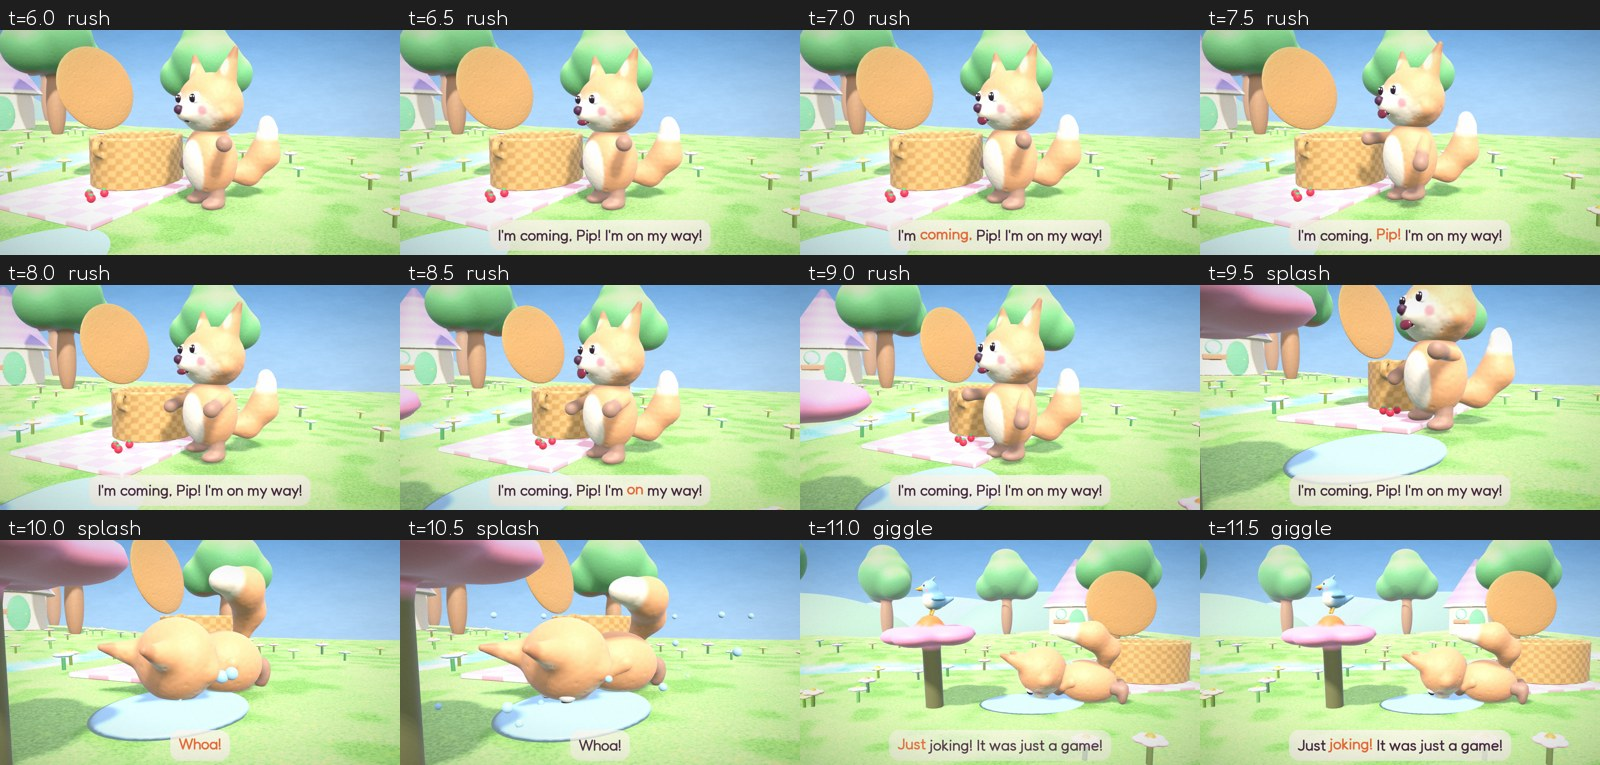
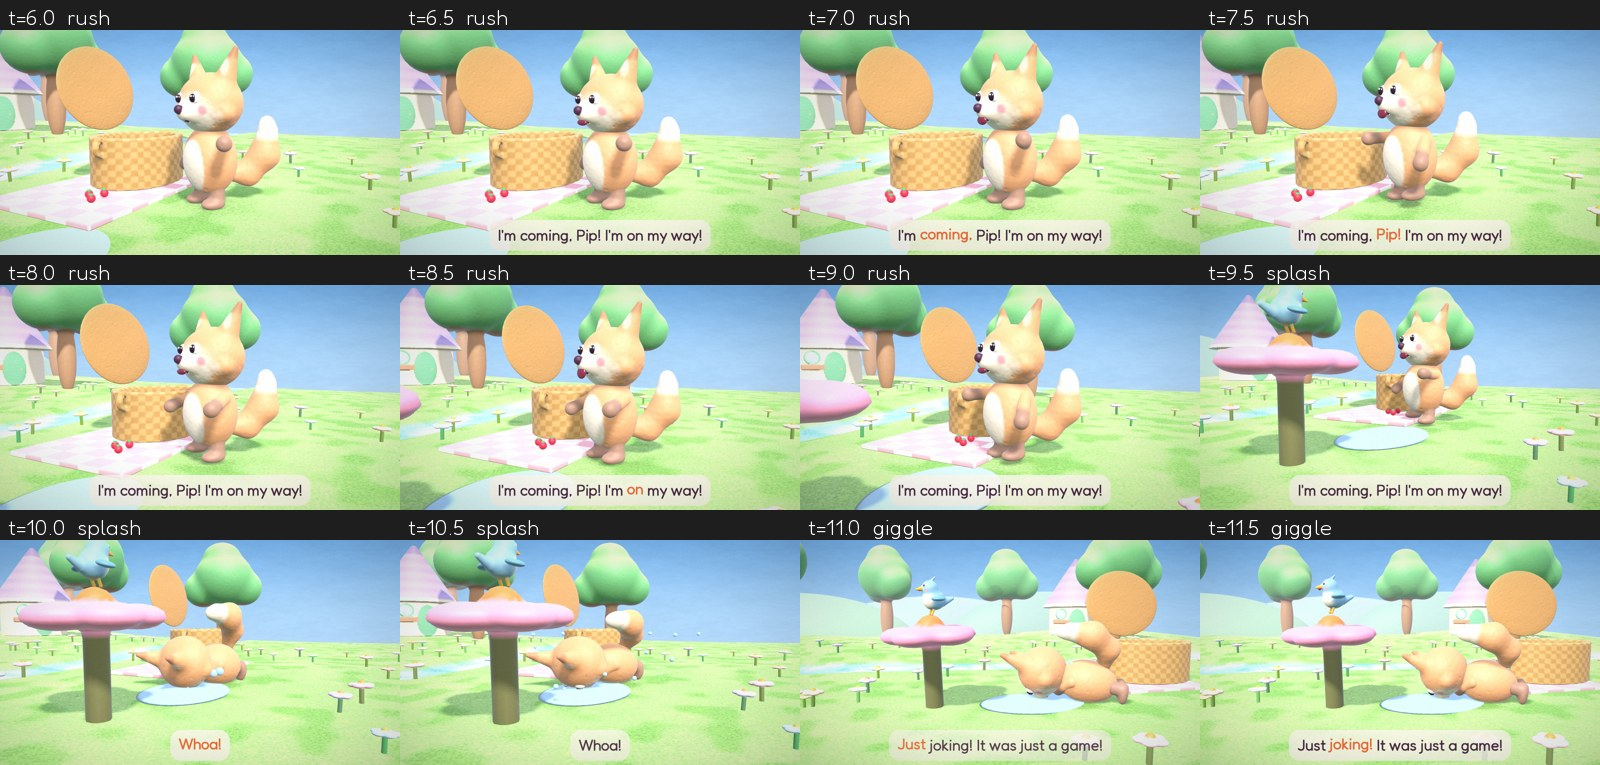
Fable 8: review round 3 fixes (Pip hover clear of face, wide rescue and splash cameras)
Claude-Session: https://claude.ai/code/session_015sJeG8C6rLnCDSthJi3ZZJ

Changed region(s): [[0.0, 0.6915, 0.5, 1.0], [0.75, 0.3608, 1.0, 0.6614], [0.375, 0.9922, 0.4062, 1.0]]

diff --git a/batches/01-fables-friendship/fable-08-pip-who-cried-help/code/render.py b/batches/01-fables-friendship/fable-08-pip-who-cried-help/code/render.py
@@ -272,7 +272,7 @@ def pip_state(t, st, mats):
     if n in ("muffled", "is_it_a_joke"):
         return pip_in(t), 0.0, False, 0.0, True, {"cling": 1.0, "wings": (0.6 + 0.3 * math.sin(t * 13), 0.6 + 0.3 * math.sin(t * 13))}
     if n == "rescue":
-        out1 = np.array([BASKET[0] - 0.35, RIM + 0.15, BASKET[1] + 0.95])   # just outside the front, left of Tumble
+        out1 = np.array([BASKET[0] - 1.3, RIM + 0.05, BASKET[1] + 0.9])   # just outside the front, left of Tumble
         if t < T.POP: return PIP_IN, 0.0, False, 0.0, True, {"cling": 1.0}
         if t < T.POP + 0.5:                                             # squeezes out under the lifted lid: a forward dive
             u = clampu(t, T.POP, T.POP + 0.5)
@@ -313,7 +313,7 @@ def camera(t):
         p = np.array([st["x"], 1.15, st["z"]])
         return fit_cam(p + np.array([-0.3, 0, 0]), -62, 6, 1.6, 1.5)
     if name == "splash":                                                # ground level, side
-        return fit_cam(np.array([FLOPPT[0] - 0.35, 0.6, FLOPPT[1]]), lerp(-62, -70, e), 5, 1.8, 1.2, lift=0.08)
+        return fit_cam(np.array([FLOPPT[0] - 0.35, 0.75 if WIDE else 0.6, FLOPPT[1]]), lerp(-62, -70, e), 5, 1.8, 1.9 if WIDE else 1.2, lift=0.08)
     if name == "giggle":                                                # close on Pip, Tumble in the puddle behind
         return fit_cam(np.array([-0.9, 1.05, -1.1]), -14, 6, 3.4, 1.6, lift=0.1)
     if name == "drip":
@@ -332,7 +332,7 @@ def camera(t):
         return fit_cam(np.array([SPINPT[0] + 0.15, 1.45, SPINPT[1]]), 38, 4, 1.0, 1.15)
     if name == "rescue":                                                # side-on to Tumble and the basket front
         c = np.array([BASKET[0] + 0.7, 1.15, BASKET[1] - 0.2])
-        return fit_cam(c, -30, 9, 2.1, 1.5)
+        return fit_cam(c, -52 if WIDE else -30, 14 if WIDE else 9, 2.1, 1.9 if WIDE else 1.5)
     if name == "moral":
         return fit_cam(np.array([MSPOT[0] + 0.25, lerp(1.35, 1.45, e), MSPOT[1]]), lerp(-12, -6, e), 5, lerp(1.3, 1.1, e), lerp(1.4, 1.15, e))
     if name == "chorus":
